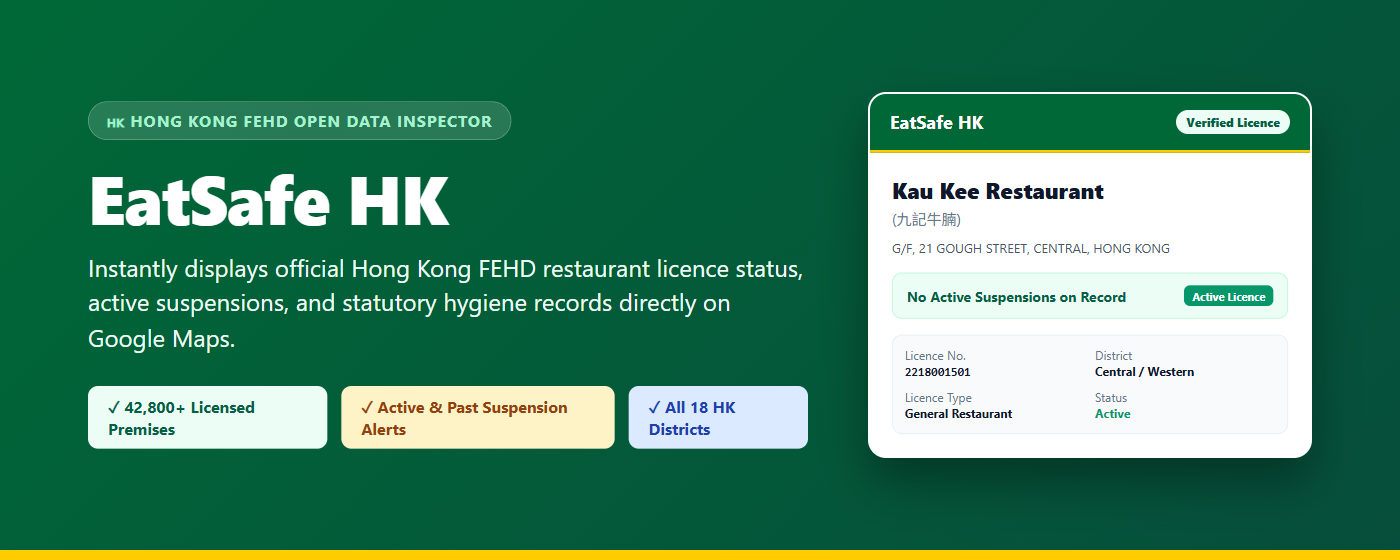
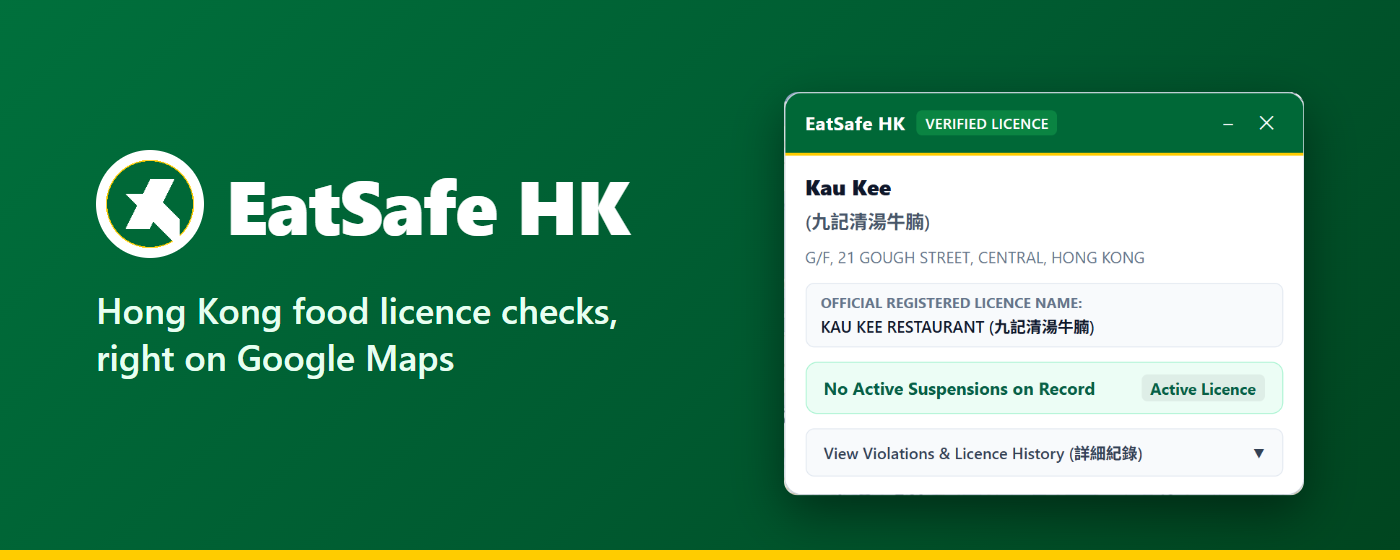
Store listing: real 1.0.6 screenshots, accurate tiles and wording
- Five new 1280x800 screenshots captured from 1.0.6 on real Google Maps;
  remove the simulator captures and the old single screenshot.
- Rebuild both promo tiles from a real card (the old marquee showed a
  made-up licence number) with less text.
- Summary, toolbar title and popup text no longer claim hygiene records,
  a "hygiene inspector" or a safety rating.
- Dai pai dong and pre-packaged cards no longer repeat their notice under a
  "Master Licence Notice" label.
- CHROMEWEBSTORE.md: field-by-field dashboard values and new description.

Changed region(s): [[0.0614, 0.1518, 1.0, 1.0]]

diff --git a/extension/popup.html b/extension/popup.html
@@ -11,7 +11,7 @@
       <img src="icons/icon-32.png" alt="EatSafe HK" class="logo-icon">
       <div>
         <div class="title">EatSafe HK</div>
-        <div class="subtitle">Google Maps Hygiene Inspector</div>
+        <div class="subtitle">FEHD food licence checks</div>
       </div>
     </div>
     <div id="status-indicator" class="status-pill status-loading">Checking...</div>
@@ -43,7 +43,7 @@
 
     <div class="section-title">Recently Inspected on Google Maps</div>
     <div id="recent-list" class="recent-list">
-      <div class="empty-state">No places inspected yet. Click any restaurant in Google Maps to see its official safety rating!</div>
+      <div class="empty-state">No places checked yet. Click any restaurant in Google Maps to see its FEHD licence.</div>
     </div>
 
     <div style="margin: 10px 0;">

diff --git a/extension/content.js b/extension/content.js
@@ -963,9 +963,9 @@
               : ""
           }
 
-          <!-- Concession / Discrepancy Notice -->
+          <!-- Concession / Discrepancy Notice (dai pai dong and pre-packaged cards already show their own notice) -->
           ${
-            r.discrepancyNote
+            r.discrepancyNote && !isDaiPaiDong && !isPrepackaged
               ? `<div class="eatsafe-discrepancy-box">
                   <strong>Master Licence Notice:</strong> ${escapeHtml(r.discrepancyNote)}
                 </div>`

diff --git a/CHROMEWEBSTORE.md b/CHROMEWEBSTORE.md
@@ -8,43 +8,51 @@
 
 ---
 
-## Basic Info
+## Basic Info (Store listing tab → Product details)
 
 | Field | Value |
 | :--- | :--- |
-| **Extension Name** | `EatSafe HK` *(10 / 75 chars — exact match with `manifest.json`)* |
-| **Summary (`manifest.json` `description`)** | `Instantly displays Hong Kong FEHD restaurant licence status, active suspensions, and hygiene enforcement records on Google Maps.` *(128 / 132 chars — populated automatically from `manifest.json`)* |
-| **Primary Category** | `Search Tools` (or `Shopping` / `Lifestyle`) |
-| **Language** | `English` (supports bilingual English & Traditional Chinese matching) |
-| **Homepage / Website URL** | `https://eatsafe-hk.pages.dev` |
-| **Support URL** | `https://eatsafe-hk.pages.dev` |
-| **Privacy Policy URL** | `https://eatsafe-hk.pages.dev/privacy` |
+| **Title** | `EatSafe HK` *(from `manifest.json`)* |
+| **Summary** | `Shows the Hong Kong FEHD food licence and any suspension orders for the restaurant you open on Google Maps.` *(107 / 132 chars, from `manifest.json`)* |
+| **Category** | `Travel` (Lifestyle). Second choice: `Well-being`. |
+| **Language** | `English (UK)` (the UI uses British spelling, e.g. "licence"); `English` if UK is not listed |
+| **Global promo video** | Leave empty |
+| **Official URL** | Leave empty (None) |
+| **Homepage URL** | Leave empty |
+| **Support URL** | Leave empty, and turn **Item support** on so users can reach you through the store's Support tab |
+| **Mature content** | No |
+| **Privacy Policy URL** *(Privacy tab, required)* | `https://eatsafe-hk.pages.dev/privacy` |
 
 ---
 
 ## Detailed Description
 
-Verify Hong Kong restaurant food licences and statutory hygiene records directly inside Google Maps!
+> Copy everything between the two lines below into the **Description** field.
 
-EatSafe HK automatically cross-references restaurants you view on Google Maps against the official Hong Kong Food and Environmental Hygiene Department (FEHD) public registry of 42,800+ licensed food premises across all 18 districts.
+---
 
-When you click on any Hong Kong restaurant, cafe, bakery, or street stall on Google Maps, a clean, draggable verification card docks right beside the Google Maps side panel—giving you instant transparency before you dine.
+EatSafe HK shows the Hong Kong food licence behind the restaurant you are looking at on Google Maps. Open any restaurant, café, bakery or dai pai dong in Hong Kong and a small card appears beside the Google Maps panel with its licence details from the Food and Environmental Hygiene Department (FEHD).
 
-Key Features:
-• Instant FEHD Licence Verification: Confirms whether a venue holds an active General Restaurant Licence, Light Refreshment Restaurant Licence, Bakery Licence, Food Factory Licence, Factory Canteen Licence, or Restricted Food Permit.
-• Statutory Suspension Alerts: Highlights active or resolved temporary licence suspension orders issued by the FEHD under the Demerit Points System (Cap. 132X), including the suspension periods from FEHD's published suspension list.
-• Branch-Level Matching: Matches English shop signs, Traditional Chinese names (繁體中文) and Cantonese romanizations, then uses the street address and map pin to pick the right outlet among same-name branches. If it cannot tell the branches apart, the card says "Unverified Match" rather than guessing.
-• Special Regulatory Classification: Automatically identifies Fixed Pitch Hawker Stalls (Dai Pai Dongs under Cap. 132AI), Hotel Master Concessions, and Licence-Exempt Pre-packaged Retail Food Outlets (Cap. 132X).
-• Built-In FEHD Licence Type Guide: Includes an interactive reference guide explaining what each Hong Kong food licence and permit authorizes.
-• Non-Intrusive & Smart UI: Automatically hides when viewing non-food locations (parks, MTR stations, residential buildings) or places outside Hong Kong, and remembers your minimized state across map navigation.
+The data comes from FEHD's public open data on DATA.GOV.HK (about 42,900 licensed food premises across all 18 districts) and FEHD's published list of licence suspensions. It is refreshed every day.
 
-Privacy First:
-EatSafe HK only queries the public name, address, and map pin coordinates of the Hong Kong restaurant you actively select on Google Maps. It never tracks your personal browsing history, search queries, or personal GPS location, and uses zero third-party analytics or ad trackers.
+What the card shows:
+• Licence status: whether the venue holds an FEHD food licence, and which type (General Restaurant, Light Refreshment Restaurant, Bakery, Food Factory, Factory Canteen and others)
+• Suspensions: any licence suspension order on FEHD's published list, which covers roughly the past year, with its dates
+• Licence details: licence number, district, expiry date and the name the licence is registered under
+• Special cases: fixed-pitch hawker stalls (dai pai dongs), restaurants in hotels that operate under the hotel's licence, and shops that only sell pre-packaged food
+• Careful matching: when several branches share a name, EatSafe HK uses the street address and map pin to find the right one. If it cannot tell them apart, the card says "Unverified Match" instead of guessing.
+• Licence type guide: a short explanation of what each kind of licence allows
 
-Legal & Open Data Attribution:
-• © 2026 EatSafe HK. All rights reserved.
-• Public Sector Information Attribution: Food licence, permit, and enforcement records are sourced from official public datasets provided by the Food and Environmental Hygiene Department (FEHD) via DATA.GOV.HK in accordance with the DATA.GOV.HK Terms of Use.
-• Disclaimer: EatSafe HK is an independent consumer transparency tool and is not affiliated with, sponsored by, or endorsed by the Food and Environmental Hygiene Department (FEHD), the Government of the Hong Kong Special Administrative Region (HKSAR), or Google LLC.
+You stay in control:
+• Close the card for one restaurant with ✕, or minimise it
+• Turn the card off completely with the switch in the toolbar popup
+• The card only appears for food places in Hong Kong
+
+Privacy:
+EatSafe HK reads only the name, address and map pin of the place you open, and uses them to look up its licence. It does not collect your location, browsing history or any personal information, and it has no ads or analytics.
+
+Please note:
+EatSafe HK is an independent tool and is not affiliated with FEHD, the HKSAR Government or Google. FEHD does not publish full inspection or conviction records, so a card with no suspensions means no suspension order is on FEHD's published list, not that a venue has never had a hygiene problem. Licence data: FEHD open data via DATA.GOV.HK.
 
 ---
 
@@ -94,23 +102,24 @@ Used exclusively to cache recent FEHD restaurant lookup responses locally (`chro
 
 ## Store Assets
 
-| Asset | Dimensions | Status | Path |
-| :--- | :--- | :--- | :--- |
-| **Store Icon** | 128×128 PNG | ✅ Ready | `extension/icons/icon-128.png` |
-| **Toolbar Icons** | 16×16, 32×32, 48×48 PNG | ✅ Ready | `extension/icons/icon-16.png`, `icon-32.png`, `icon-48.png` |
-| **Screenshot 1 (Live Google Maps — Verified Licence)** | 1280×800 PNG | ✅ Ready | `store-assets/screenshot-real-1-google-maps-verified-1280x800.png` |
-| **Screenshot 2** | 1280×800 PNG | ⏳ To capture | Retake on real Google Maps with v1.0.6, e.g. the expanded details panel or an "Unverified Match" card. Do not use the old Krua Walaiphan "Past Suspension" capture: that suspension was a false match to a different "Shop No. 8, G/F" premises and Krua has no suspension record. |
-| ~~Simulator: Clean Verified Licence Card~~ | 1280×800 PNG | ⚠ Do not upload — captured on the retired mock-maps simulator, not real Google Maps | `store-assets/screenshot-1-verified-licence-1280x800.png` |
-| ~~Simulator: Expanded Details & Licence Guide~~ | 1280×800 PNG | ⚠ Do not upload — simulator capture; retake on real Google Maps | `store-assets/screenshot-2-licence-guide-1280x800.png` |
-| ~~Simulator: Master Licence & Suspension Alert~~ | 1280×800 PNG | ⚠ Do not upload — simulator capture; retake on real Google Maps | `store-assets/screenshot-3-master-licence-1280x800.png` |
-| **Small Promo Tile** | 440×280 PNG | ✅ Ready | `store-assets/promo-tile-small-440x280.png` |
-| **Large / Marquee Promo Tile** | 1400×560 PNG | ✅ Ready | `store-assets/promo-tile-large-1400x560.png` |
+All images are 24-bit PNG with no transparency, captured from version 1.0.6 on real Google Maps. Upload the screenshots in this order.
+
+| Dashboard field | File | Shows |
+| :--- | :--- | :--- |
+| **Store icon** (128×128) | `extension/icons/icon-128.png` | Logo |
+| **Screenshot 1** | `store-assets/screenshot-1-verified-licence-1280x800.png` | Card beside the Google Maps panel (Lan Fong Yuen) |
+| **Screenshot 2** | `store-assets/screenshot-2-licence-details-1280x800.png` | Expanded details: suspension history, licence number, type, expiry (Kau Kee) |
+| **Screenshot 3** | `store-assets/screenshot-3-licence-type-guide-1280x800.png` | Licence type guide |
+| **Screenshot 4** | `store-assets/screenshot-4-dai-pai-dong-1280x800.png` | Dai pai dong (fixed-pitch hawker) card (Sing Heung Yuen) |
+| **Screenshot 5** | `store-assets/screenshot-5-popup-on-off-1280x800.png` | Toolbar popup with the on/off switch and recent lookups |
+| **Small promo tile** (440×280) | `store-assets/promo-tile-small-440x280.png` | Logo and tagline |
+| **Marquee promo tile** (1400×560) | `store-assets/promo-tile-large-1400x560.png` | Logo, tagline and a real card (Kau Kee) |
 
 ---
 
 ## Version History
 
-- **1.0.6** (2026-11-01): Accuracy release — every licence is now geocoded with the HKSAR Address Lookup Service so same-name branches are told apart by distance from the map pin; address matching uses whole words; ambiguous chain matches are labelled "Unverified Match"; active suspensions now outrank the master-licence badge; the popup shows unverified matches; the violations section is now "Suspension History" and no longer shows placeholder text as if it were a record; the close button keeps the card closed for that venue; the popup has a "Show card on Google Maps" on/off switch; a backend server error now shows "Connection Issue" instead of "No FEHD Record"; the lookup is redone once Google Maps adds the place pin, and a street number that contradicts the licence address is no longer treated as a verified match.
+- **1.0.6** (2026-11-01): Accuracy release — every licence is now geocoded with the HKSAR Address Lookup Service so same-name branches are told apart by distance from the map pin; address matching uses whole words; ambiguous chain matches are labelled "Unverified Match"; active suspensions now outrank the master-licence badge; the popup shows unverified matches; the violations section is now "Suspension History" and no longer shows placeholder text as if it were a record; the close button keeps the card closed for that venue; the popup has a "Show card on Google Maps" on/off switch; a backend server error now shows "Connection Issue" instead of "No FEHD Record"; the lookup is redone once Google Maps adds the place pin; dai pai dong and pre-packaged cards no longer repeat their notice under a "Master Licence Notice" label; the summary and popup wording no longer promise hygiene records or a safety rating; and a street number that contradicts the licence address is no longer treated as a verified match.
 - **1.0.5** (2026-10-31): Chrome Web Store production compliance release — shortened manifest description to 128 characters (under 132-char CWS limit), removed development `localhost` host permissions, replaced inline `javascript:` reload link with CSP-compliant event listener, fixed `PREPACKAGED_RETAIL` badge label in popup recent list, added copyright & FEHD DATA.GOV.HK attribution footer, and published live privacy policy at `https://eatsafe-hk.pages.dev/privacy`.
 - **1.0.4** (2026-10-31): Migrated Cloudflare D1 backend search to an external-content SQLite FTS5 inverted index (reducing D1 rows read by 3,988× to ~8.6 rows/query while preserving 100% accuracy), addedSPA hydration guard, in-flight request deduplication, and 6-hour positive cache TTL.
 - **1.0.0** (2026-10-18): Initial release with live FEHD open data matching (42,800+ food premises), statutory suspension alerts, Dai Pai Dong (Cap. 132AI) and Pre-packaged Retail (Cap. 132X) badges, hotel master licence resolution, and interactive Licence Type Guide.
